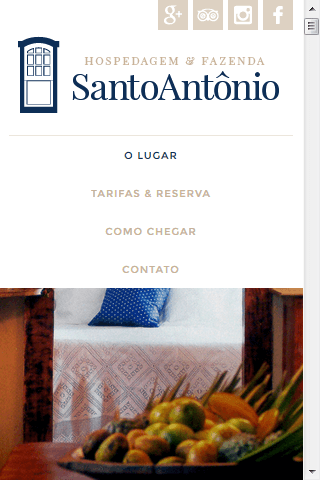
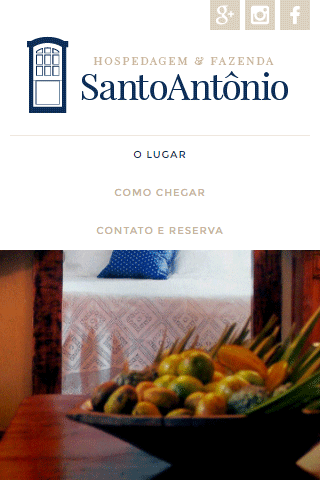
Atualização do projeto Hospedagem
Removi imagens desnecessárias e adicionei uma imagem que estava
faltando.

diff --git a/projeto-fazenda.html b/projeto-fazenda.html
@@ -100,7 +100,7 @@
 				</div>
 			</div>
 			<div class="browser-window">
-				<video id="hospedagem" class="browser_img" title="Hospedagem Santo Antônio" preload="auto" width="100%" height="auto" poster="img/fazenda/hospedagem.png" data-setup="{}">
+				<video id="hospedagem" class="browser_img" title="Hospedagem Santo Antônio" preload="auto" width="100%" height="auto" poster="img/fazenda/hospedagem.jpg" data-setup="{}">
 					<source src="img/fazenda/hospedagem.mp4" type="video/mp4">
 					Your browser does not support HTML5 video.
 				</video>
